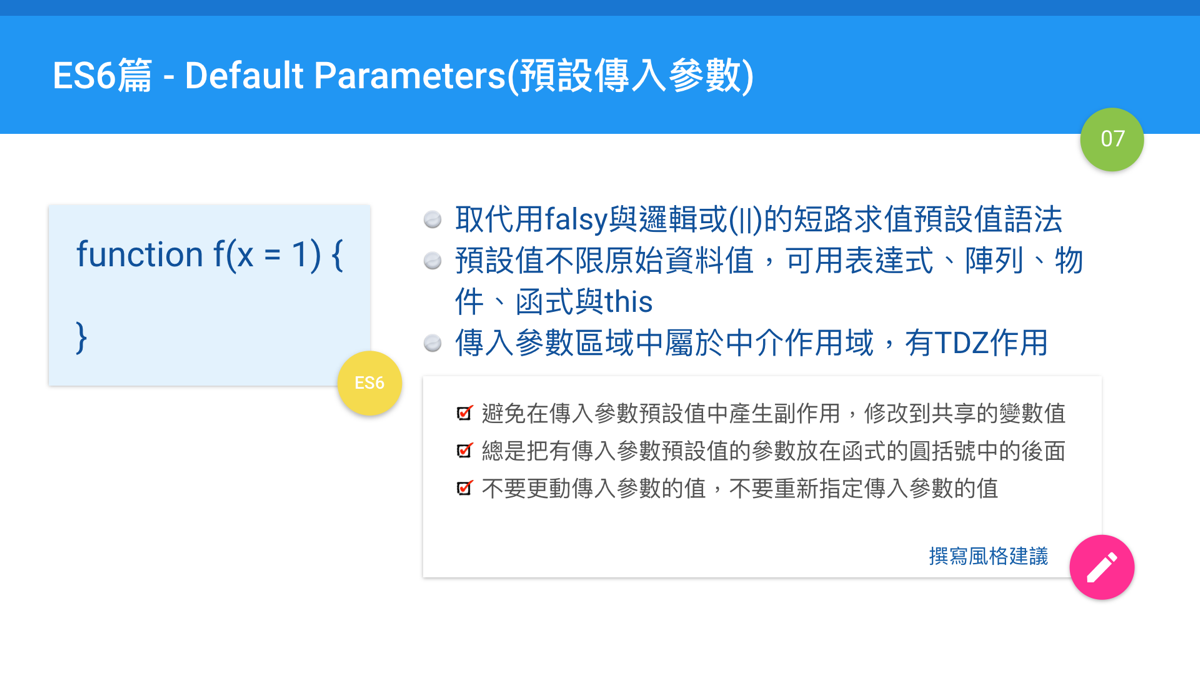
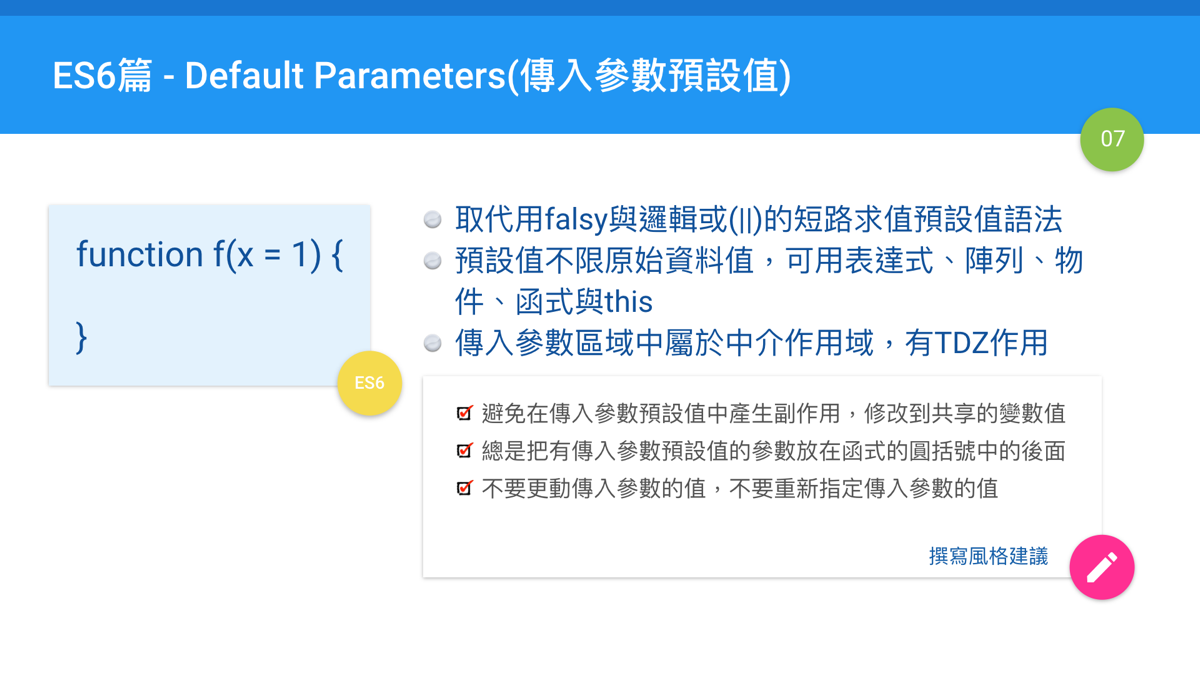
update

Changed region(s): [[0.4317, 0.0622, 0.6783, 0.1556]]

diff --git a/day07_es6_default_param/README.md b/day07_es6_default_param/README.md
@@ -1,8 +1,8 @@
-## ES6篇 - Default Parameters(預設傳入參數)
+## ES6篇 - Default Parameters(傳入參數預設值)
 
 ![intro](https://raw.githubusercontent.com/eyesofkids/ironman2017/master/day07_es6_default_param/asset/intro.png)
 
-本章的目標是提供ES6中在函式中的預設傳入參數的一些介紹。預設傳入參數是在眾多ES6新特性中的其中一個，它改善了長期以來在JavaScript中都要使用技巧性的作法來設定函式傳入參數的預設值的語法。
+本章的目標是提供ES6中在函式中的傳入參數預設值的一些介紹。傳入參數預設值是在眾多ES6新特性中的其中一個，它改善了長期以來在JavaScript中都要使用技巧性的作法來設定函式傳入參數的預設值的語法。
 
 > 註: 本文章同步放置於[Github庫的這裡](https://github.com/eyesofkids/ironman2017/tree/master/day07_es6_default_param)。
 
@@ -13,9 +13,9 @@
 
 > 註: 函式中有個隱藏的物件也叫`arguments`這個名稱，所以它是捕捉到所有傳入到函式裡面的所有值的一個物件。
 
-## 之前的預設傳入參數怎麼作
+## 之前的傳入參數預設值怎麼作
 
-你可能會看到書上或教學文章上，告訴你函式的預設傳入參數是像下面這樣的程式碼範例:
+你可能會看到書上或教學文章上，告訴你函式的傳入參數預設值是像下面這樣的程式碼範例:
 
 ```js
 //用邏輯或符號(||)
@@ -35,7 +35,7 @@ const link = function (point, url) {
 
 函式的傳入參數預設值，在未指定實際的傳入值時，一定是`undefined`，這與變數宣告後但沒有指定值很相似。而且在函式定義時，我們並沒有辦法直接限定傳入參數的資料類型，所以在函式內的語句部份，一開始都會進行實際傳入參數值的資料類型檢查。所以會使用`typeof`的回傳值來判斷是否為`undefined`，或是用邏輯或(||)運算符的預設值設定方式。
 
-使用邏輯或符號(||)的容易造成初學者混亂，這也是一個常在討論區中看到的問題。這是因為因為JavaScript採用了與其他程式語言不同的邏輯運算的回傳值設計，我們把這兩個運算符，指的是邏輯或(||)以及邏輯與(\&\&))稱為"[短路求值(Short-circuit)](https://en.wikipedia.org/wiki/Short-circuit_evaluation)"的運算符。在經過邏輯與(\&\&)以及邏輯或(||)的運算後，它的回傳值是 - **最後的值(Last value)**，並不是像在其他常見程式語言例如Java、C++、PHP中的是布林值。
+使用邏輯或符號(||)的容易造成初學者混亂，這也是一個常在討論區中看到的問題。這是因為因為JavaScript採用了與其他程式語言不同的邏輯運算的回傳值設計，我們把這兩個運算符，指的是邏輯或(||)以及邏輯與(\&\&))稱為"[短路求值(Short-circuit)](https://en.wikipedia.org/wiki/Short-circuit_evaluation)"的運算符。在經過邏輯與(\&\&)以及邏輯或(||)的運算後，它的回傳值是 - 最後的值(Last value)，並不是像在其他常見程式語言例如Java、C++、PHP中的是布林值。
 
 因此，短路求值運算變成JavaScript中一種常被使用的特性，尤其是邏輯或(||)。關於邏輯或(||)運算在JavaScript語言中的可以這樣說明:
 
